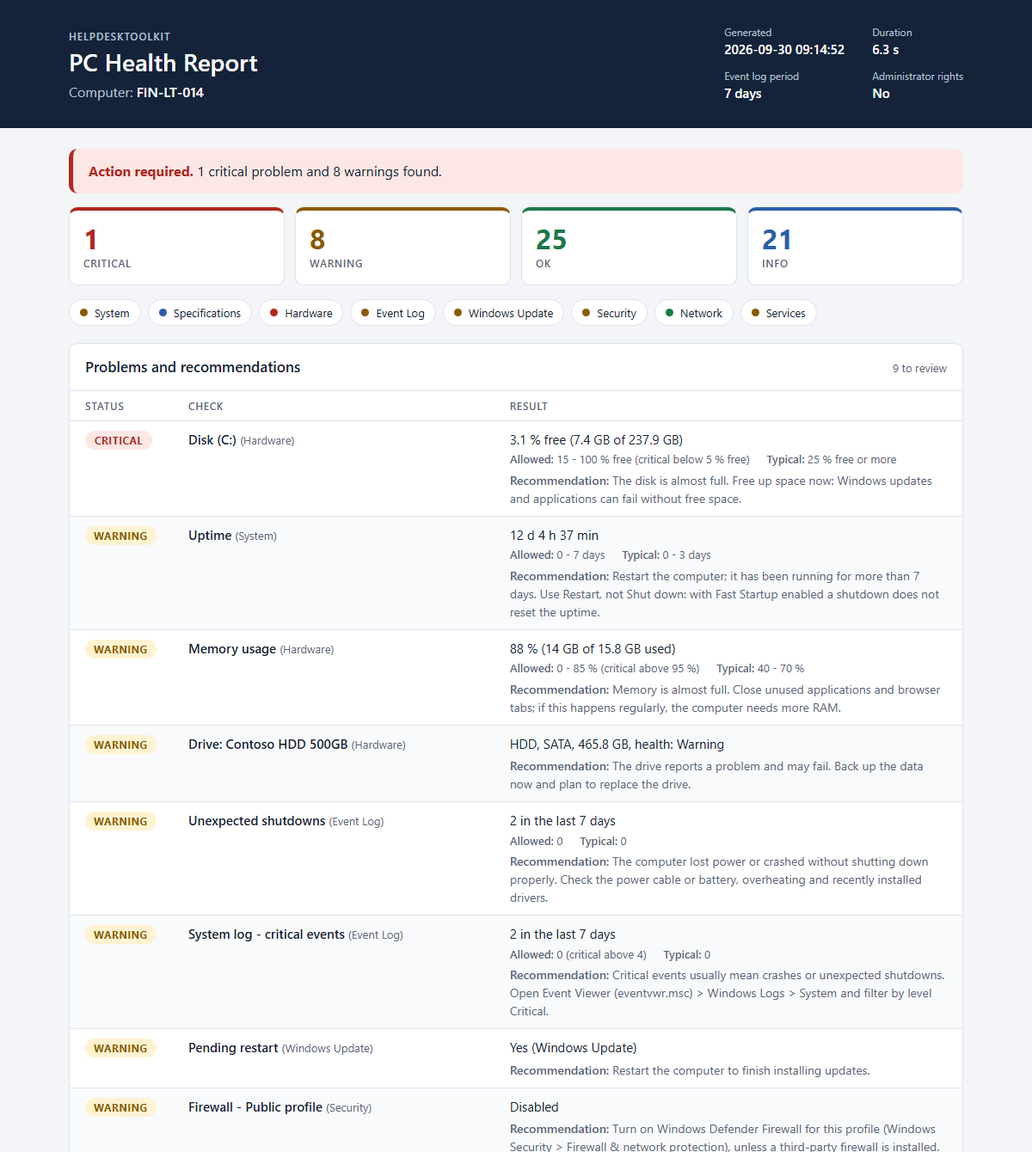
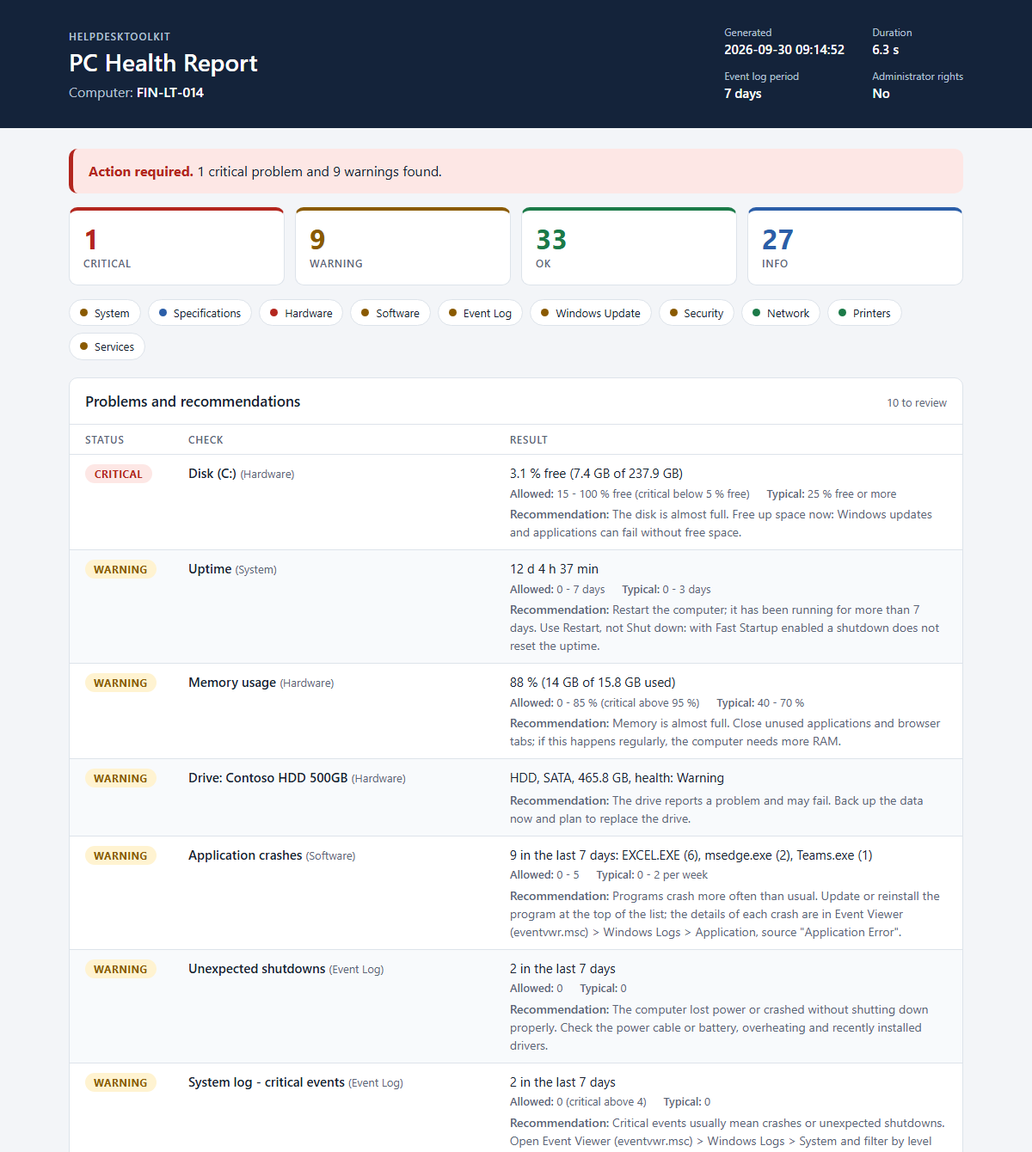
docs: update sample report, screenshots and READMEs
Adds the Software and Printers categories and the other new checks to the fictional sample, regenerates both screenshots and describes the category-based window.

diff --git a/docs/sample-report.html b/docs/sample-report.html
@@ -501,25 +501,27 @@ footer {
 </dl>
 </div></header>
 <main><div class="container">
-<p class="verdict critical"><strong>Action required.</strong> <span>1 critical problem and 8 warnings found.</span></p>
+<p class="verdict critical"><strong>Action required.</strong> <span>1 critical problem and 9 warnings found.</span></p>
 <section class="summary" aria-label="Summary">
 <div class="tile critical"><span class="count">1</span><span class="label">Critical</span></div>
-<div class="tile warning"><span class="count">8</span><span class="label">Warning</span></div>
-<div class="tile ok"><span class="count">25</span><span class="label">OK</span></div>
-<div class="tile info"><span class="count">21</span><span class="label">Info</span></div>
+<div class="tile warning"><span class="count">9</span><span class="label">Warning</span></div>
+<div class="tile ok"><span class="count">33</span><span class="label">OK</span></div>
+<div class="tile info"><span class="count">27</span><span class="label">Info</span></div>
 </section>
 <nav class="toc" aria-label="Categories">
 <a href="#cat-system"><span class="dot warning"></span>System</a>
 <a href="#cat-specifications"><span class="dot info"></span>Specifications</a>
 <a href="#cat-hardware"><span class="dot critical"></span>Hardware</a>
+<a href="#cat-software"><span class="dot warning"></span>Software</a>
 <a href="#cat-event-log"><span class="dot warning"></span>Event Log</a>
 <a href="#cat-windows-update"><span class="dot warning"></span>Windows Update</a>
 <a href="#cat-security"><span class="dot warning"></span>Security</a>
 <a href="#cat-network"><span class="dot ok"></span>Network</a>
+<a href="#cat-printers"><span class="dot ok"></span>Printers</a>
 <a href="#cat-services"><span class="dot warning"></span>Services</a>
 </nav>
 <section class="card" id="problems">
-<div class="card-header"><h2>Problems and recommendations</h2><span class="counts">9 to review</span></div>
+<div class="card-header"><h2>Problems and recommendations</h2><span class="counts">10 to review</span></div>
 <table>
 <thead><tr><th class="col-status">Status</th><th class="col-check">Check</th><th>Result</th></tr></thead>
 <tbody>
@@ -527,6 +529,7 @@ footer {
 <tr><td class="col-status"><span class="badge warning">Warning</span></td><td class="col-check"><div class="check">Uptime <span class="category-label">(System)</span></div></td><td><div class="value">12 d 4 h 37 min</div><div class="reference"><span><b>Allowed:</b> 0 - 7 days</span><span><b>Typical:</b> 0 - 3 days</span></div><div class="recommendation">Restart the computer; it has been running for more than 7 days. Use Restart, not Shut down: with Fast Startup enabled a shutdown does not reset the uptime.</div></td></tr>
 <tr><td class="col-status"><span class="badge warning">Warning</span></td><td class="col-check"><div class="check">Memory usage <span class="category-label">(Hardware)</span></div></td><td><div class="value">88 % (14 GB of 15.8 GB used)</div><div class="reference"><span><b>Allowed:</b> 0 - 85 % (critical above 95 %)</span><span><b>Typical:</b> 40 - 70 %</span></div><div class="recommendation">Memory is almost full. Close unused applications and browser tabs; if this happens regularly, the computer needs more RAM.</div></td></tr>
 <tr><td class="col-status"><span class="badge warning">Warning</span></td><td class="col-check"><div class="check">Drive: Contoso HDD 500GB <span class="category-label">(Hardware)</span></div></td><td><div class="value">HDD, SATA, 465.8 GB, health: Warning</div><div class="recommendation">The drive reports a problem and may fail. Back up the data now and plan to replace the drive.</div></td></tr>
+<tr><td class="col-status"><span class="badge warning">Warning</span></td><td class="col-check"><div class="check">Application crashes <span class="category-label">(Software)</span></div></td><td><div class="value">9 in the last 7 days: EXCEL.EXE (6), msedge.exe (2), Teams.exe (1)</div><div class="reference"><span><b>Allowed:</b> 0 - 5</span><span><b>Typical:</b> 0 - 2 per week</span></div><div class="recommendation">Programs crash more often than usual. Update or reinstall the program at the top of the list; the details of each crash are in Event Viewer (eventvwr.msc) &gt; Windows Logs &gt; Application, source &quot;Application Error&quot;.</div></td></tr>
 <tr><td class="col-status"><span class="badge warning">Warning</span></td><td class="col-check"><div class="check">Unexpected shutdowns <span class="category-label">(Event Log)</span></div></td><td><div class="value">2 in the last 7 days</div><div class="reference"><span><b>Allowed:</b> 0</span><span><b>Typical:</b> 0</span></div><div class="recommendation">The computer lost power or crashed without shutting down properly. Check the power cable or battery, overheating and recently installed drivers.</div></td></tr>
 <tr><td class="col-status"><span class="badge warning">Warning</span></td><td class="col-check"><div class="check">System log - critical events <span class="category-label">(Event Log)</span></div></td><td><div class="value">2 in the last 7 days</div><div class="reference"><span><b>Allowed:</b> 0 (critical above 4)</span><span><b>Typical:</b> 0</span></div><div class="recommendation">Critical events usually mean crashes or unexpected shutdowns. Open Event Viewer (eventvwr.msc) &gt; Windows Logs &gt; System and filter by level Critical.</div></td></tr>
 <tr><td class="col-status"><span class="badge warning">Warning</span></td><td class="col-check"><div class="check">Pending restart <span class="category-label">(Windows Update)</span></div></td><td><div class="value">Yes (Windows Update)</div><div class="recommendation">Restart the computer to finish installing updates.</div></td></tr>
@@ -535,7 +538,7 @@ footer {
 </tbody></table>
 </section>
 <section class="card" id="cat-system">
-<div class="card-header"><h2>System</h2><span class="counts"><span class="warning">1 Warning</span> &middot; <span class="ok">2 OK</span> &middot; <span class="info">6 Info</span></span></div>
+<div class="card-header"><h2>System</h2><span class="counts"><span class="warning">1 Warning</span> &middot; <span class="ok">2 OK</span> &middot; <span class="info">7 Info</span></span></div>
 <table>
 <thead><tr><th class="col-status">Status</th><th class="col-check">Check</th><th>Result</th></tr></thead>
 <tbody>
@@ -545,6 +548,7 @@ footer {
 <tr><td class="col-status"><span class="badge info">Info</span></td><td class="col-check"><div class="check">Manufacturer and model</div><div class="description">Who made the computer and which model it is. Needed to find drivers, spare parts and warranty information.</div></td><td><div class="value">Contoso Ltd. ProBook 450</div></td></tr>
 <tr><td class="col-status"><span class="badge info">Info</span></td><td class="col-check"><div class="check">Domain or workgroup</div><div class="description">Whether the computer is managed centrally in a company domain or stands alone in a workgroup. It decides where user accounts and policies come from.</div></td><td><div class="value">Domain: corp.contoso.example</div></td></tr>
 <tr><td class="col-status"><span class="badge info">Info</span></td><td class="col-check"><div class="check">Signed-in user</div><div class="description">The account that is using the computer right now. Problems are often tied to one user profile rather than to the whole machine.</div></td><td><div class="value">CONTOSO\m.horvat</div></td></tr>
+<tr><td class="col-status"><span class="badge info">Info</span></td><td class="col-check"><div class="check">Time zone</div><div class="description">The time zone the clock is set to. A wrong time zone shifts meeting times and can make sign-in to online services fail.</div></td><td><div class="value">(UTC+01:00) Sarajevo, Skopje, Warsaw, Zagreb</div></td></tr>
 <tr><td class="col-status"><span class="badge warning">Warning</span></td><td class="col-check"><div class="check">Uptime</div><div class="description">The time since Windows was last started. A restart clears the memory, finishes updates and resets drivers, so a long uptime is a common cause of slowness.</div></td><td><div class="value">12 d 4 h 37 min</div><div class="reference"><span><b>Allowed:</b> 0 - 7 days</span><span><b>Typical:</b> 0 - 3 days</span></div><div class="recommendation">Restart the computer; it has been running for more than 7 days. Use Restart, not Shut down: with Fast Startup enabled a shutdown does not reset the uptime.</div></td></tr>
 <tr><td class="col-status"><span class="badge ok">OK</span></td><td class="col-check"><div class="check">Windows activation</div><div class="description">Activation confirms that this copy of Windows has a valid license. Without it Windows shows reminders and locks the personalization settings.</div></td><td><div class="value">Activated</div></td></tr>
 <tr><td class="col-status"><span class="badge ok">OK</span></td><td class="col-check"><div class="check">Startup programs</div><div class="description">Programs that start automatically when the user signs in. Each one makes sign-in slower and keeps using memory in the background.</div></td><td><div class="value">12 programs: Chat Client, Cloud Backup, Contoso Updater, Contoso VPN, Mail Notifier, OneDrive, PDF Helper, Printer Assistant and 4 more</div><details><summary>Show 4 more</summary><ul><li>Screenshot Tool</li><li>SecurityHealth</li><li>Teams</li><li>Touchpad Driver</li></ul></details><div class="reference"><span><b>Allowed:</b> 0 - 15</span><span><b>Typical:</b> 5 - 10</span></div></td></tr>
@@ -564,7 +568,7 @@ footer {
 </tbody></table>
 </section>
 <section class="card" id="cat-hardware">
-<div class="card-header"><h2>Hardware</h2><span class="counts"><span class="critical">1 Critical</span> &middot; <span class="warning">2 Warning</span> &middot; <span class="ok">4 OK</span> &middot; <span class="info">1 Info</span></span></div>
+<div class="card-header"><h2>Hardware</h2><span class="counts"><span class="critical">1 Critical</span> &middot; <span class="warning">2 Warning</span> &middot; <span class="ok">5 OK</span> &middot; <span class="info">1 Info</span></span></div>
 <table>
 <thead><tr><th class="col-status">Status</th><th class="col-check">Check</th><th>Result</th></tr></thead>
 <tbody>
@@ -575,15 +579,28 @@ footer {
 <tr><td class="col-status"><span class="badge warning">Warning</span></td><td class="col-check"><div class="check">Drive: Contoso HDD 500GB</div><div class="description">A physical SSD or hard disk and the health state it reports about itself. A drive that reports problems can fail and take the data with it.</div></td><td><div class="value">HDD, SATA, 465.8 GB, health: Warning</div><div class="recommendation">The drive reports a problem and may fail. Back up the data now and plan to replace the drive.</div></td></tr>
 <tr><td class="col-status"><span class="badge critical">Critical</span></td><td class="col-check"><div class="check">Disk (C:)</div><div class="description">A drive letter (partition) and its free space. Windows needs free space for updates, temporary files and virtual memory.</div></td><td><div class="value">3.1 % free (7.4 GB of 237.9 GB)</div><div class="reference"><span><b>Allowed:</b> 15 - 100 % free (critical below 5 % free)</span><span><b>Typical:</b> 25 % free or more</span></div><div class="recommendation">The disk is almost full. Free up space now: Windows updates and applications can fail without free space.</div></td></tr>
 <tr><td class="col-status"><span class="badge ok">OK</span></td><td class="col-check"><div class="check">Disk (D:)</div><div class="description">A drive letter (partition) and its free space. Windows needs free space for updates, temporary files and virtual memory.</div></td><td><div class="value">61.4 % free (286.1 GB of 465.8 GB)</div><div class="reference"><span><b>Allowed:</b> 15 - 100 % free (critical below 5 % free)</span><span><b>Typical:</b> 25 % free or more</span></div></td></tr>
+<tr><td class="col-status"><span class="badge ok">OK</span></td><td class="col-check"><div class="check">Devices with problems</div><div class="description">Hardware that Windows found but cannot use, shown with a yellow mark in Device Manager. Usually the driver is missing or failed to start.</div></td><td><div class="value">None</div></td></tr>
 <tr><td class="col-status"><span class="badge ok">OK</span></td><td class="col-check"><div class="check">Battery</div><div class="description">The charge of the laptop battery and whether the charger is connected.</div></td><td><div class="value">64 % (plugged in)</div><div class="reference"><span><b>Allowed:</b> 20 - 100 % (critical below 10 %)</span></div></td></tr>
 </tbody></table>
 </section>
+<section class="card" id="cat-software">
+<div class="card-header"><h2>Software</h2><span class="counts"><span class="warning">1 Warning</span> &middot; <span class="info">3 Info</span></span></div>
+<table>
+<thead><tr><th class="col-status">Status</th><th class="col-check">Check</th><th>Result</th></tr></thead>
+<tbody>
+<tr><td class="col-status"><span class="badge info">Info</span></td><td class="col-check"><div class="check">Installed programs</div><div class="description">The programs listed under Installed apps in Settings. Useful to see what is on the computer and which versions.</div></td><td><div class="value">12 programs: 7-Zip 24.08, Chat Client 5.2, Contoso Office 16.0, Contoso VPN 3.1, Mail Client 12.4, PDF Reader 2025.1, Printer Assistant 2.0, Screenshot Tool 4.0 and 4 more</div><details><summary>Show 4 more</summary><ul><li>Teams 25.1</li><li>Touchpad Driver 19.5</li><li>Video Player 3.0</li><li>Web Meeting Client 6.2</li></ul></details></td></tr>
+<tr><td class="col-status"><span class="badge info">Info</span></td><td class="col-check"><div class="check">Recently installed</div><div class="description">Programs installed in the last weeks. When a problem is new, something installed recently is a likely cause.</div></td><td><div class="value">2 in the last 30 days: Screenshot Tool (2026-09-22), PDF Reader (2026-09-11)</div></td></tr>
+<tr><td class="col-status"><span class="badge warning">Warning</span></td><td class="col-check"><div class="check">Application crashes</div><div class="description">How often programs stopped working unexpectedly, and which ones. A program that crashes again and again needs an update or a reinstall.</div></td><td><div class="value">9 in the last 7 days: EXCEL.EXE (6), msedge.exe (2), Teams.exe (1)</div><div class="reference"><span><b>Allowed:</b> 0 - 5</span><span><b>Typical:</b> 0 - 2 per week</span></div><div class="recommendation">Programs crash more often than usual. Update or reinstall the program at the top of the list; the details of each crash are in Event Viewer (eventvwr.msc) &gt; Windows Logs &gt; Application, source &quot;Application Error&quot;.</div></td></tr>
+<tr><td class="col-status"><span class="badge info">Info</span></td><td class="col-check"><div class="check">Default browser</div><div class="description">The browser that opens when a link is clicked in e-mail or another program.</div></td><td><div class="value">Microsoft Edge</div></td></tr>
+</tbody></table>
+</section>
 <section class="card" id="cat-event-log">
-<div class="card-header"><h2>Event Log</h2><span class="counts"><span class="warning">2 Warning</span> &middot; <span class="ok">3 OK</span> &middot; <span class="info">2 Info</span></span></div>
+<div class="card-header"><h2>Event Log</h2><span class="counts"><span class="warning">2 Warning</span> &middot; <span class="ok">4 OK</span> &middot; <span class="info">2 Info</span></span></div>
 <table>
 <thead><tr><th class="col-status">Status</th><th class="col-check">Check</th><th>Result</th></tr></thead>
 <tbody>
 <tr><td class="col-status"><span class="badge warning">Warning</span></td><td class="col-check"><div class="check">Unexpected shutdowns</div><div class="description">How often the computer went off without a proper shutdown (power loss, crash, forced power-off). It risks data loss and points to power or stability problems.</div></td><td><div class="value">2 in the last 7 days</div><div class="reference"><span><b>Allowed:</b> 0</span><span><b>Typical:</b> 0</span></div><div class="recommendation">The computer lost power or crashed without shutting down properly. Check the power cable or battery, overheating and recently installed drivers.</div></td></tr>
+<tr><td class="col-status"><span class="badge ok">OK</span></td><td class="col-check"><div class="check">Blue screens</div><div class="description">How often Windows itself crashed and showed the blue stop screen. It points to a faulty driver or failing hardware.</div></td><td><div class="value">0 in the last 7 days</div><div class="reference"><span><b>Allowed:</b> 0</span><span><b>Typical:</b> 0</span></div></td></tr>
 <tr><td class="col-status"><span class="badge warning">Warning</span></td><td class="col-check"><div class="check">System log - critical events</div><div class="description">The most severe events recorded by Windows itself and its drivers, such as crashes and sudden power loss.</div></td><td><div class="value">2 in the last 7 days</div><div class="reference"><span><b>Allowed:</b> 0 (critical above 4)</span><span><b>Typical:</b> 0</span></div><div class="recommendation">Critical events usually mean crashes or unexpected shutdowns. Open Event Viewer (eventvwr.msc) &gt; Windows Logs &gt; System and filter by level Critical.</div></td></tr>
 <tr><td class="col-status"><span class="badge ok">OK</span></td><td class="col-check"><div class="check">System log - errors</div><div class="description">Errors recorded by Windows components, drivers and services. A few are normal; many from one source point to a recurring problem.</div></td><td><div class="value">31 in the last 7 days</div><div class="reference"><span><b>Allowed:</b> 0 - 50</span><span><b>Typical:</b> 0 - 20 per week</span></div></td></tr>
 <tr><td class="col-status"><span class="badge info">Info</span></td><td class="col-check"><div class="check">System log - top sources</div><div class="description">The components that logged the most errors. They show where to start looking in Event Viewer.</div></td><td><div class="value">Service Control Manager (14), Microsoft-Windows-DistributedCOM (11), disk (4), Microsoft-Windows-Kernel-Power (2), Netwtw14 (2)</div></td></tr>
@@ -593,24 +610,29 @@ footer {
 </tbody></table>
 </section>
 <section class="card" id="cat-windows-update">
-<div class="card-header"><h2>Windows Update</h2><span class="counts"><span class="warning">1 Warning</span> &middot; <span class="ok">1 OK</span></span></div>
+<div class="card-header"><h2>Windows Update</h2><span class="counts"><span class="warning">1 Warning</span> &middot; <span class="ok">2 OK</span></span></div>
 <table>
 <thead><tr><th class="col-status">Status</th><th class="col-check">Check</th><th>Result</th></tr></thead>
 <tbody>
 <tr><td class="col-status"><span class="badge ok">OK</span></td><td class="col-check"><div class="check">Last installed update</div><div class="description">The most recent Windows update on this computer. Updates close security holes, so a long gap leaves the computer exposed.</div></td><td><div class="value">KB5000001 on 2026-09-18 (12 days ago)</div><div class="reference"><span><b>Allowed:</b> 0 - 45 days</span><span><b>Typical:</b> 0 - 30 days</span></div></td></tr>
 <tr><td class="col-status"><span class="badge warning">Warning</span></td><td class="col-check"><div class="check">Pending restart</div><div class="description">Whether Windows is waiting for a restart to finish installing updates. Until then the updates are not fully applied.</div></td><td><div class="value">Yes (Windows Update)</div><div class="recommendation">Restart the computer to finish installing updates.</div></td></tr>
+<tr><td class="col-status"><span class="badge ok">OK</span></td><td class="col-check"><div class="check">Updates paused</div><div class="description">Whether Windows Update was paused in Settings. While it is paused no security updates are installed.</div></td><td><div class="value">No</div></td></tr>
 </tbody></table>
 </section>
 <section class="card" id="cat-security">
-<div class="card-header"><h2>Security</h2><span class="counts"><span class="warning">1 Warning</span> &middot; <span class="ok">5 OK</span> &middot; <span class="info">2 Info</span></span></div>
+<div class="card-header"><h2>Security</h2><span class="counts"><span class="warning">1 Warning</span> &middot; <span class="ok">9 OK</span> &middot; <span class="info">2 Info</span></span></div>
 <table>
 <thead><tr><th class="col-status">Status</th><th class="col-check">Check</th><th>Result</th></tr></thead>
 <tbody>
 <tr><td class="col-status"><span class="badge ok">OK</span></td><td class="col-check"><div class="check">Defender real-time protection</div><div class="description">The part of Microsoft Defender Antivirus that scans files and programs the moment they are opened. Without it malware is not stopped in time.</div></td><td><div class="value">Enabled</div></td></tr>
 <tr><td class="col-status"><span class="badge ok">OK</span></td><td class="col-check"><div class="check">Defender definitions</div><div class="description">The list of known threats the antivirus uses to recognize malware. It has to be updated often to catch new threats.</div></td><td><div class="value">1 day old (updated 2026-09-29 06:12)</div><div class="reference"><span><b>Allowed:</b> 0 - 3 days (critical above 7 days)</span><span><b>Typical:</b> 0 - 1 days</span></div></td></tr>
+<tr><td class="col-status"><span class="badge ok">OK</span></td><td class="col-check"><div class="check">Defender last scan</div><div class="description">When Microsoft Defender last scanned the computer for malware that is already on it. Real-time protection only checks files as they are opened.</div></td><td><div class="value">3 days ago</div><div class="reference"><span><b>Allowed:</b> 0 - 14 days</span><span><b>Typical:</b> 0 - 7 days</span></div></td></tr>
 <tr><td class="col-status"><span class="badge ok">OK</span></td><td class="col-check"><div class="check">Firewall - Domain profile</div><div class="description">The firewall rules used while the computer is connected to the company domain network. The firewall blocks unwanted incoming connections.</div></td><td><div class="value">Enabled</div></td></tr>
 <tr><td class="col-status"><span class="badge ok">OK</span></td><td class="col-check"><div class="check">Firewall - Private profile</div><div class="description">The firewall rules used on networks marked as private, such as a home or small office network.</div></td><td><div class="value">Enabled</div></td></tr>
 <tr><td class="col-status"><span class="badge warning">Warning</span></td><td class="col-check"><div class="check">Firewall - Public profile</div><div class="description">The firewall rules used on public networks such as cafes and airports, where the protection matters most.</div></td><td><div class="value">Disabled</div><div class="recommendation">Turn on Windows Defender Firewall for this profile (Windows Security &gt; Firewall &amp; network protection), unless a third-party firewall is installed.</div></td></tr>
+<tr><td class="col-status"><span class="badge ok">OK</span></td><td class="col-check"><div class="check">User Account Control</div><div class="description">UAC asks for confirmation before a program can make changes to Windows. It stops programs from silently taking administrator rights.</div></td><td><div class="value">Enabled</div></td></tr>
+<tr><td class="col-status"><span class="badge ok">OK</span></td><td class="col-check"><div class="check">Remote Desktop</div><div class="description">A Windows feature that lets someone sign in to this computer from another one. Handy for support, but an open door if it is not needed.</div></td><td><div class="value">Disabled</div></td></tr>
+<tr><td class="col-status"><span class="badge ok">OK</span></td><td class="col-check"><div class="check">Account type</div><div class="description">Whether the signed-in user is a standard user or a local administrator. An administrator account can change anything on the computer.</div></td><td><div class="value">Standard user</div></td></tr>
 <tr><td class="col-status"><span class="badge ok">OK</span></td><td class="col-check"><div class="check">Secure Boot</div><div class="description">A UEFI feature that lets only trusted, signed software start the computer. It protects against malware that loads before Windows.</div></td><td><div class="value">Enabled</div></td></tr>
 <tr><td class="col-status"><span class="badge info">Info</span></td><td class="col-check"><div class="check">TPM</div><div class="description">A security chip that stores encryption keys safely. BitLocker and Windows Hello rely on it, and Windows 11 requires version 2.0.</div></td><td><div class="value">Requires admin</div><div class="recommendation">Run PowerShell as administrator to include this check.</div></td></tr>
 <tr><td class="col-status"><span class="badge info">Info</span></td><td class="col-check"><div class="check">BitLocker (C:)</div><div class="description">Full-disk encryption built into Windows. If the computer is lost or stolen, the data on the drive cannot be read without the key.</div></td><td><div class="value">Requires admin</div><div class="recommendation">Run PowerShell as administrator to include this check.</div></td></tr>
@@ -621,12 +643,22 @@ footer {
 <table>
 <thead><tr><th class="col-status">Status</th><th class="col-check">Check</th><th>Result</th></tr></thead>
 <tbody>
-<tr><td class="col-status"><span class="badge info">Info</span></td><td class="col-check"><div class="check">Adapter: Contoso Wi-Fi 6 AX200 160MHz</div><div class="description">A network card (cable or Wi-Fi) and its settings: the IP address identifies the computer, the gateway is the router, DNS servers translate names and DHCP hands all of this out automatically.</div></td><td><div class="value">IPv4: 10.20.30.57 | Gateway: 10.20.30.1 | DNS: 10.20.30.10, 10.20.30.11 | DHCP: Yes | MAC: 00:00:5E:00:53:2A</div></td></tr>
+<tr><td class="col-status"><span class="badge info">Info</span></td><td class="col-check"><div class="check">Adapter: Contoso Wi-Fi 6 AX200 160MHz</div><div class="description">A network card (cable or Wi-Fi) and its settings: the IP address identifies the computer, the gateway is the router, DNS servers translate names and DHCP hands all of this out automatically. Speed is the link speed the card negotiated.</div></td><td><div class="value">IPv4: 10.20.30.57 | Gateway: 10.20.30.1 | DNS: 10.20.30.10, 10.20.30.11 | DHCP: Yes | MAC: 00:00:5E:00:53:2A | Speed: 867 Mbps</div></td></tr>
 <tr><td class="col-status"><span class="badge info">Info</span></td><td class="col-check"><div class="check">Proxy</div><div class="description">A server that web traffic can be routed through. A wrong or leftover proxy setting stops browsers from reaching the internet.</div></td><td><div class="value">Not configured</div></td></tr>
 <tr><td class="col-status"><span class="badge ok">OK</span></td><td class="col-check"><div class="check">Ping default gateway</div><div class="description">A test message sent to the router. A reply means the connection between the computer and the local network works.</div></td><td><div class="value">10.20.30.1 replied in 3 ms</div><div class="reference"><span><b>Typical:</b> under 5 ms</span></div></td></tr>
 <tr><td class="col-status"><span class="badge ok">OK</span></td><td class="col-check"><div class="check">Ping internet</div><div class="description">A test message sent to a public server. A reply means traffic gets past the router and out to the internet.</div></td><td><div class="value">1.1.1.1 replied in 18 ms</div><div class="reference"><span><b>Allowed:</b> 0 - 150 ms</span><span><b>Typical:</b> 10 - 50 ms</span></div></td></tr>
 <tr><td class="col-status"><span class="badge ok">OK</span></td><td class="col-check"><div class="check">DNS resolution</div><div class="description">DNS translates names such as microsoft.com into IP addresses. If it fails, web sites do not open even though the connection itself works.</div></td><td><div class="value">microsoft.com -&gt; 203.0.113.25</div></td></tr>
 <tr><td class="col-status"><span class="badge ok">OK</span></td><td class="col-check"><div class="check">HTTPS access</div><div class="description">A real web request over an encrypted connection. It confirms that the computer can actually reach web sites.</div></td><td><div class="value">https://www.microsoft.com reachable (HTTP 200)</div></td></tr>
+</tbody></table>
+</section>
+<section class="card" id="cat-printers">
+<div class="card-header"><h2>Printers</h2><span class="counts"><span class="ok">1 OK</span> &middot; <span class="info">2 Info</span></span></div>
+<table>
+<thead><tr><th class="col-status">Status</th><th class="col-check">Check</th><th>Result</th></tr></thead>
+<tbody>
+<tr><td class="col-status"><span class="badge info">Info</span></td><td class="col-check"><div class="check">Default printer</div><div class="description">The printer that programs use when no other one is chosen. Printing to the wrong printer is often just a wrong default.</div></td><td><div class="value">Contoso LaserJet 400 (2nd floor)</div></td></tr>
+<tr><td class="col-status"><span class="badge info">Info</span></td><td class="col-check"><div class="check">Installed printers</div><div class="description">The printers set up on this computer, including virtual ones such as &quot;Microsoft Print to PDF&quot;.</div></td><td><div class="value">3 printers: Contoso LaserJet 400 (2nd floor), Microsoft Print to PDF, OneNote (Desktop)</div></td></tr>
+<tr><td class="col-status"><span class="badge ok">OK</span></td><td class="col-check"><div class="check">Print queue</div><div class="description">The documents waiting to be printed. One stuck document blocks every document behind it.</div></td><td><div class="value">0 documents waiting</div></td></tr>
 </tbody></table>
 </section>
 <section class="card" id="cat-services">

diff --git a/README.hr.md b/README.hr.md
@@ -22,20 +22,23 @@ Sučelje i izvještaj su na engleskom jeziku.
 
 | Kategorija | Provjere |
 |---|---|
-| System | Ime računala, verzija i build Windowsa, datum instalacije, proizvođač i model, domena ili radna grupa, prijavljeni korisnik, uptime, aktivacija Windowsa, programi koji se pokreću sa sustavom |
+| System | Ime računala, verzija i build Windowsa, datum instalacije, proizvođač i model, domena ili radna grupa, prijavljeni korisnik, vremenska zona, uptime, aktivacija Windowsa, programi koji se pokreću sa sustavom |
 | Specifications | Procesor, memorijski moduli i slobodni utori, grafičke kartice, matična ploča, BIOS/UEFI, serijski broj |
-| Hardware | Opterećenje CPU-a, zauzeće RAM-a i najveći potrošači memorije, zdravlje svakog fizičkog diska, slobodan prostor po disku, baterija |
-| Event Log | Neočekivana gašenja, kritični događaji i greške u System i Application logu u zadnjih N dana, najčešći izvori |
-| Windows Update | Zadnje instalirano ažuriranje, čeka li se restart |
-| Security | Zaštita u stvarnom vremenu i starost definicija Microsoft Defendera, firewall profili, Secure Boot, TPM\*, BitLocker\* |
-| Network | Adapteri (IPv4, gateway, DNS, DHCP, MAC), proxy, ping gatewaya i interneta, DNS razlučivanje, HTTPS pristup |
+| Hardware | Opterećenje CPU-a, zauzeće RAM-a i najveći potrošači memorije, zdravlje svakog fizičkog diska, slobodan prostor po disku, uređaji bez ispravnog drivera, baterija |
+| Software | Instalirani programi s verzijama, nedavno instalirani programi, rušenja aplikacija po programu, zadani preglednik |
+| Event Log | Neočekivana gašenja, plavi ekrani, kritični događaji i greške u System i Application logu u zadnjih N dana, najčešći izvori |
+| Windows Update | Zadnje instalirano ažuriranje, čeka li se restart, jesu li ažuriranja pauzirana |
+| Security | Zaštita u stvarnom vremenu, starost definicija i zadnje skeniranje Microsoft Defendera, firewall profili, User Account Control, Remote Desktop, vrsta računa, Secure Boot, TPM\*, BitLocker\* |
+| Network | Adapteri (IPv4, gateway, DNS, DHCP, MAC, brzina veze), proxy, ping gatewaya i interneta, DNS razlučivanje, HTTPS pristup |
+| Printers | Zadani pisač, instalirani pisači i oni koji su offline, dokumenti zaglavljeni u redu za ispis |
 | Services | DHCP Client, DNS Client, Windows Event Log, Workstation, Windows Defender Firewall, Microsoft Defender Antivirus, Windows Update, BITS, Print Spooler |
 
 \* traži administratorska prava; inače je označeno s "Requires admin".
 
 Svaki rezultat ima status (**OK**, **Warning**, **Critical** ili **Info**), kratko
-objašnjenje što je to što se provjerava i preporuku kad nešto nije u redu. Uz mjerenja
-se prikazuju i dopušteni raspon te tipična vrijednost za usporedbu.
+objašnjenje što je to što se provjerava i preporučeno rješenje kad god je status Warning
+ili Critical. Uz mjerenja se prikazuju i dopušteni raspon te tipična vrijednost za
+usporedbu.
 
 ## Izvještaj
 
@@ -96,9 +99,11 @@ Set-ExecutionPolicy -Scope CurrentUser -ExecutionPolicy RemoteSigned
 Show-PCHealthCheck
 ```
 
-Klikni **Run check**. Odaberi redak da vidiš što provjera znači, njezin dopušteni raspon
-i preporuku. **Open HTML report** sprema izvještaj i otvara ga u pregledniku, a
-**Save as...** ga sprema kao HTML ili JSON na mjesto koje odabereš.
+Klikni **Run check**. Stranica **Overview** prikazuje sve probleme s preporučenim
+rješenjem. Odaberi kategoriju lijevo (System, Hardware, Network, ...) da vidiš sve što je
+u njoj provjereno; točka i broj uz svaku kategoriju pokazuju gdje su problemi.
+**Open HTML report** sprema izvještaj i otvara ga u pregledniku, a **Save as...** ga
+sprema kao HTML ili JSON na mjesto koje odabereš.
 
 ### Naredbeni redak
 
@@ -117,7 +122,7 @@ Invoke-PCHealthCheck -NoOpen -SkipNetwork -PassThru |
 | Parametar | Značenje |
 |---|---|
 | `-OutputPath` | Mapa za izvještaj. Zadano: `Documents\HelpdeskToolkit`. |
-| `-Days` | Koliko dana Event Loga se analizira. Zadano: 7. |
+| `-Days` | Koliko dana Event Loga i rušenja aplikacija se analizira. Zadano: 7. |
 | `-Format` | `Html` (zadano), `Json` ili `Both`. |
 | `-SkipNetwork` | Preskače ping, DNS i HTTPS testove. Konfiguracija adaptera se i dalje ispisuje. |
 | `-NoOpen` | Ne otvara HTML izvještaj u pregledniku. |
@@ -140,8 +145,8 @@ $report.Results | Where-Object Status -eq 'Critical'
 
 Dostupne naredbe: `Invoke-PCHealthCheck`, `Show-PCHealthCheck`, `Get-PCHealthReport`,
 `Get-SystemHealth`, `Get-ComputerSpecification`, `Get-HardwareHealth`,
-`Get-EventLogHealth`, `Get-WindowsUpdateHealth`, `Get-SecurityHealth`,
-`Get-NetworkHealth`, `Get-ServiceHealth`. Svaka ima potpunu pomoć: `Get-Help <naredba> -Full`.
+`Get-SoftwareHealth`, `Get-EventLogHealth`, `Get-WindowsUpdateHealth`,
+`Get-SecurityHealth`, `Get-NetworkHealth`, `Get-PrinterHealth`, `Get-ServiceHealth`. Svaka ima potpunu pomoć: `Get-Help <naredba> -Full`.
 
 Svaki rezultat je objekt s istim svojstvima:
 

diff --git a/README.md b/README.md
@@ -20,20 +20,23 @@ problems it found and what to do about them.
 
 | Category | Checks |
 |---|---|
-| System | Computer name, Windows version and build, install date, manufacturer and model, domain or workgroup, signed-in user, uptime, Windows activation, startup programs |
+| System | Computer name, Windows version and build, install date, manufacturer and model, domain or workgroup, signed-in user, time zone, uptime, Windows activation, startup programs |
 | Specifications | Processor, memory modules and free slots, graphics adapters, motherboard, BIOS/UEFI, serial number |
-| Hardware | CPU load, memory usage and the top memory consumers, health of every physical drive, free space per disk, battery |
-| Event Log | Unexpected shutdowns, critical events and errors in the System and Application logs for the last N days, top sources |
-| Windows Update | Last installed update, pending restart |
-| Security | Microsoft Defender real-time protection and definition age, firewall profiles, Secure Boot, TPM\*, BitLocker\* |
-| Network | Adapters (IPv4, gateway, DNS, DHCP, MAC), proxy, ping to the gateway and to the internet, DNS resolution, HTTPS access |
+| Hardware | CPU load, memory usage and the top memory consumers, health of every physical drive, free space per disk, devices without a working driver, battery |
+| Software | Installed programs with versions, recently installed programs, application crashes per program, default browser |
+| Event Log | Unexpected shutdowns, blue screens, critical events and errors in the System and Application logs for the last N days, top sources |
+| Windows Update | Last installed update, pending restart, paused updates |
+| Security | Microsoft Defender real-time protection, definition age and last scan, firewall profiles, User Account Control, Remote Desktop, account type, Secure Boot, TPM\*, BitLocker\* |
+| Network | Adapters (IPv4, gateway, DNS, DHCP, MAC, link speed), proxy, ping to the gateway and to the internet, DNS resolution, HTTPS access |
+| Printers | Default printer, installed printers and offline ones, documents stuck in the print queue |
 | Services | DHCP Client, DNS Client, Windows Event Log, Workstation, Windows Defender Firewall, Microsoft Defender Antivirus, Windows Update, BITS, Print Spooler |
 
 \* needs administrator rights; otherwise marked "Requires admin".
 
 Every result has a status (**OK**, **Warning**, **Critical** or **Info**), a short
-explanation of what the checked thing is, and a recommendation when something is wrong.
-Measurements also show the allowed range and a typical value for comparison.
+explanation of what the checked thing is, and a recommended fix whenever the status is
+Warning or Critical. Measurements also show the allowed range and a typical value for
+comparison.
 
 ## The report
 
@@ -94,9 +97,11 @@ Set-ExecutionPolicy -Scope CurrentUser -ExecutionPolicy RemoteSigned
 Show-PCHealthCheck
 ```
 
-Click **Run check**. Select a row to see what the check means, its allowed range and the
-recommendation. **Open HTML report** saves the report and opens it in the browser;
-**Save as...** saves it as HTML or JSON wherever you choose.
+Click **Run check**. The **Overview** page lists every problem with its recommended fix.
+Choose a category on the left (System, Hardware, Network, ...) to see everything it
+checked; the dot and the number next to each category show where the problems are.
+**Open HTML report** saves the report and opens it in the browser; **Save as...** saves
+it as HTML or JSON wherever you choose.
 
 ### The command line
 
@@ -115,7 +120,7 @@ Invoke-PCHealthCheck -NoOpen -SkipNetwork -PassThru |
 | Parameter | Meaning |
 |---|---|
 | `-OutputPath` | Folder for the report. Default: `Documents\HelpdeskToolkit`. |
-| `-Days` | Days of event log history to analyze. Default: 7. |
+| `-Days` | Days of event log and crash history to analyze. Default: 7. |
 | `-Format` | `Html` (default), `Json` or `Both`. |
 | `-SkipNetwork` | Skip ping, DNS and HTTPS tests. The adapter configuration is still reported. |
 | `-NoOpen` | Do not open the HTML report in the browser. |
@@ -138,8 +143,8 @@ $report.Results | Where-Object Status -eq 'Critical'
 
 Available commands: `Invoke-PCHealthCheck`, `Show-PCHealthCheck`, `Get-PCHealthReport`,
 `Get-SystemHealth`, `Get-ComputerSpecification`, `Get-HardwareHealth`,
-`Get-EventLogHealth`, `Get-WindowsUpdateHealth`, `Get-SecurityHealth`,
-`Get-NetworkHealth`, `Get-ServiceHealth`. Each has full help: `Get-Help <command> -Full`.
+`Get-SoftwareHealth`, `Get-EventLogHealth`, `Get-WindowsUpdateHealth`,
+`Get-SecurityHealth`, `Get-NetworkHealth`, `Get-PrinterHealth`, `Get-ServiceHealth`. Each has full help: `Get-Help <command> -Full`.
 
 Every result is an object with the same properties:
 
